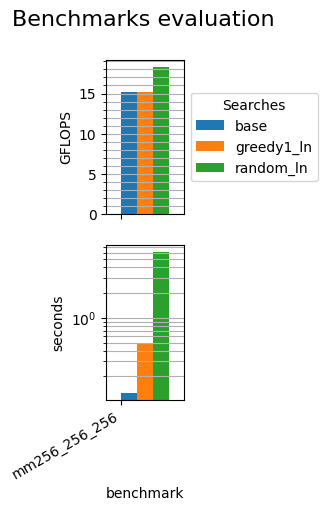
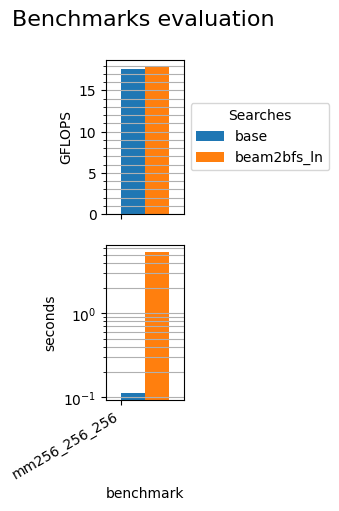
Adding results

diff --git a/loop_tool_service/models/rllib/rllib_agent.py b/loop_tool_service/models/rllib/rllib_agent.py
@@ -52,7 +52,7 @@ from loop_tool_service.models.evaluator import Evaluator
 
 import torch
 import importlib
-import inspect
+import time
 
 from ray.tune.integration.wandb import WandbLoggerCallback
 from loop_tool_service.paths import LOOP_TOOL_ROOT
@@ -158,7 +158,7 @@ class MyCallback(Callback):
 
 
 class RLlibAgent:
-    def __init__(self, trainer, dataset, size, network, sweep_count, eval_time, wandb_key_path=str(LOOP_TOOL_ROOT) + "/wandb_key.txt") -> None:
+    def __init__(self, trainer, dataset, size, eval_size, network, sweep_count, eval_time, wandb_key_path=str(LOOP_TOOL_ROOT) + "/wandb_key.txt") -> None:
         self.wandb_dict = {}
 
         global datasets_global, max_episode_steps
@@ -170,11 +170,12 @@ class RLlibAgent:
         self.config = importlib.import_module(f"loop_tool_service.models.rllib.config.{self.algorithm}.{trainer}").get_config(sweep_count)
         self.dataset = dataset
         self.size = size
+        self.eval_size = eval_size
         self.network = getattr(importlib.import_module(f"loop_tool_service.models.rllib.my_net_rl"), network)
         self.wandb_dict['network'] = network
         self.env = make_env()
         self.reward = list(self.env.reward.spaces.keys())[0]
-        my_artifacts = Path(tempfile.mkdtemp()) # Dir to download and upload files. Has start, end subdirectories
+        my_artifacts = Path(f'/private/home/dejang/tools/loop_tool_env/results/{time.strftime("%Y%m%d-%H%M%S")}') #Path(tempfile.mkdtemp()) # Dir to download and upload files. Has start, end subdirectories
         self.my_artifacts_start = my_artifacts/'start'
         self.my_artifacts_end = my_artifacts/'end'
         self.device = 'cuda' if torch.cuda.is_available() else 'cpu'
@@ -189,8 +190,11 @@ class RLlibAgent:
         self.init()
     
     def init(self):
-        os.mkdir(self.my_artifacts_start)
-        os.mkdir(self.my_artifacts_end)
+        # os.mkdir(self.my_artifacts_start)
+        # os.mkdir(self.my_artifacts_end)
+        self.my_artifacts_start.mkdir(parents=True)
+        self.my_artifacts_end.mkdir(parents=True)
+        
         ModelCatalog.register_custom_model(
             "my_model", self.network #my_net_rl.TorchBatchNormModel #if False else my_net_rl.TorchCustomModel
         )
@@ -208,6 +212,8 @@ class RLlibAgent:
         self.test_benchmarks = benchmarks[train_size:]
         self.wandb_dict['train_benchmarks'] = self.train_benchmarks
         self.wandb_dict['test_benchmarks'] = self.test_benchmarks
+        self.wandb_dict['eval_train_benchmarks'] = self.train_benchmarks[:self.eval_size]
+        self.wandb_dict['eval_test_benchmarks'] = self.test_benchmarks[:self.eval_size]
 
         self.wandb_dict['train_size'] = len(self.train_benchmarks)
         self.wandb_dict['test_size'] = len(self.test_benchmarks)
@@ -246,10 +252,12 @@ class RLlibAgent:
 
             self.train_benchmarks = self.checkpoint_start['train_benchmarks']
             self.test_benchmarks = self.checkpoint_start['test_benchmarks']
-            
+            self.wandb_dict['eval_train_benchmarks'] = self.checkpoint_start['eval_train_benchmarks'][:self.eval_size] if len(self.eval_size) < self.checkpoint_start['eval_train_benchmarks'] else self.checkpoint_start['train_benchmarks'][:self.eval_size]
+            self.wandb_dict['eval_test_benchmarks'] = self.checkpoint_start['eval_test_benchmarks'][:self.eval_size] if len(self.eval_size) < self.checkpoint_start['eval_test_benchmarks'] else self.checkpoint_start['eval_test_benchmarks'][:self.eval_size]
+
 
         except:
-            print('Policy not found')
+            print('Wandb had problem with loading the model!')
             return
 
             
@@ -297,19 +305,18 @@ class RLlibAgent:
             print("hhh2______________________")
 
 
-    def evaluate(self, eval_size=100, eval_time=10):
+    def evaluate(self):
         if self.analysis:
             config_checkpoint_pairs = [ [trial.trial_id, trial.config, str(trial.checkpoint.value)] for trial in self.analysis.trials ]
         elif self.checkpoint_path != None:
-            config_checkpoint_pairs = [['dummy', self.config, self.checkpoint_path]]
+            config_checkpoint_pairs = [[ self.wandb_dict['wandb_start'].split('/')[-1], self.config, self.checkpoint_path]]
         else:
             print('RLlibAgent: No analysis found. Run train method first.')
             return
 
 
         searches = { k:v for k, v in self.evaluator.searches.items() if k in ['greedy1_ln', 'greedy2_ln', 'beam2dfs_ln', 'beam4dfs_ln','beam2bfs_ln', 'beam4bfs_ln', 'random_ln', 'policy']} 
-        # searches = { k:v for k, v in self.evaluator.searches.items() if k in ['greedy1_ln', 'greedy2_ln', 'policy']} 
-        
+
         for trial_id, config, checkpoint_path_str in config_checkpoint_pairs:
             if checkpoint_path_str == None:
                 continue
@@ -339,16 +346,11 @@ class RLlibAgent:
 
             self.evaluator.send_to_wandb(wandb_run_id=trial_id, wandb_dict=self.wandb_dict, path=self.my_artifacts_end/trial_id)
 
-            # # Evaluate trial
-            # if self.algorithm in ['ppo']:
-            #     torch.save(policy_model,  policy_path)
-            #     self.evaluator.set_policy_path(policy_path)
-            # else:
             self.evaluator.set_policy_agent(agent)
 
-            df_train = self.evaluator.evaluate(self.env, self.train_benchmarks[:eval_size], searches)
+            df_train = self.evaluator.evaluate(self.env, self.wandb_dict['eval_train_benchmarks'], searches)
             self.evaluator.save(path=self.my_artifacts_end/trial_id/"train")
-            df_val = self.evaluator.evaluate(self.env, self.test_benchmarks[:eval_size], searches)
+            df_val = self.evaluator.evaluate(self.env, self.wandb_dict['eval_test_benchmarks'], searches)
             self.evaluator.save(path=self.my_artifacts_end/trial_id/"test")
         
             self.wandb_update_df(df_train, prefix='train_')
@@ -390,7 +392,15 @@ if __name__ == '__main__':
         ray.init(local_mode=args.local_mode, ignore_reinit_error=True)
 
 
-    agent = RLlibAgent(trainer=args.trainer, dataset=args.dataset, size=args.size, network=args.network, sweep_count=args.sweep, eval_time=args.eval_time)
+    agent = RLlibAgent(
+        trainer=args.trainer, 
+        dataset=args.dataset, 
+        size=args.size, 
+        eval_size=args.eval_size,
+        network=args.network, 
+        sweep_count=args.sweep, 
+        eval_time=args.eval_time
+    )
 
     if args.wandb_url:
         agent.load_model(args.wandb_url)
@@ -400,7 +410,7 @@ if __name__ == '__main__':
         stop_reward=args.stop_reward,
         sweep_count=args.sweep,
     )
-    agent.evaluate(args.eval_size)
+    agent.evaluate()
 
     ray.shutdown()
     print("Return from train!")

diff --git a/loop_tool_service/service_py/env/search_env.py b/loop_tool_service/service_py/env/search_env.py
@@ -54,11 +54,11 @@ class SearchGraph:
     def expand_core(self, agent, search_depth, search_width, eval_mode, start_time, ranking, timeout):
         node_time = time.time() - start_time
         node_key = hash(agent.dump())
-        real_flops = self.evaluator.eval_gflops(agent, 'loop_nest')
 
         self.action_max_time[len(agent.actions)] = node_time
 
         if node_key not in self.graph or self.graph.nodes[node_key] == {} or len(agent.actions) < len(self.graph.nodes[node_key]['actions']):
+            real_flops = self.evaluator.eval_gflops(agent, 'loop_nest')
             self.graph.add_node(
                 node_key,
                 label=f'GFLOPS = {real_flops:9.4f}\n T = {node_time:9.4f} s\n{agent.actions}', #+ agent.dump().replace(':', ';'),
@@ -117,6 +117,8 @@ class SearchGraph:
         action_max_time_final = [self.action_max_time[0]]
         for i in range(1, len(self.action_max_time)):
             action_max_time_final.append(max(action_max_time_final[-1], self.action_max_time[i]))
+
+        action_max_time_final[0] = float("nan")
 
         return [actions, rewards, action_max_time_final]
 
@@ -206,8 +208,9 @@ class BeamSearcherBFS:
         frontier_agents = [agent_copy]
         start_time = time.time()
 
-        for _ in range(num_steps):
-            for agent_frontier in frontier_agents:
+        for i in range(num_steps):
+            while len(frontier_agents):
+                agent_frontier = frontier_agents.pop()
                 search_graph.expand(
                     agent=agent_frontier, 
                     num_steps=1, 
@@ -215,17 +218,17 @@ class BeamSearcherBFS:
                     eval_mode=eval_mode, 
                     start_time=start_time, 
                     ranking=ranking, 
-                    timeout=timeout/num_steps
+                    timeout=timeout
                 )
             
             frontier_nodes = [node for node in search_graph.graph.nodes if search_graph.graph.out_degree(node) == 0]
             for x in frontier_nodes: 
-                agent_copy = agent.copy()
+                agent_frontier = agent_copy.copy()
                 for action in search_graph.graph.nodes[x]['actions']:
-                    agent_copy.apply_action(action)
+                    agent_frontier.apply_action(action)
                 
-                frontier_agents.append(agent_copy)
-                
+                frontier_agents.append(agent_frontier)
+
                     
         search_table = search_graph.get_best_path_data()
 

diff --git a/loop_tool_service/models/evaluator.py b/loop_tool_service/models/evaluator.py
@@ -153,6 +153,11 @@ class Evaluator:
         axs[1].set_ylabel('seconds')
         axs[1].set_yscale('log')
         
+
+        plt.gca().yaxis.set_major_locator(plt.LogLocator(base=10, numticks=10))
+        plt.gca().yaxis.set_minor_locator(plt.LogLocator(base=10, subs='all', numticks=100))
+
+
         fig.suptitle(f'Benchmarks evaluation', fontsize=16)
         fig.autofmt_xdate()
 
@@ -199,8 +204,8 @@ class Evaluator:
             fig, axs = plt.subplots(2, 1)
             
             for i, search in enumerate(search_columns): 
-                x_data = np.arange(0, self.steps + 1, 1) + 0.05 * i  # to show overlaping points
-                axs[0].plot(x_data[:len(gflops_row[search])], gflops_row[search], marker = '.', label = search)                
+                x_data = np.arange(0, 2 * self.steps, 1) + 0.05 * i  # to show overlaping points
+                axs[0].plot(x_data[:len(gflops_row[search])], gflops_row[search], marker = '.', label = search)      
                 axs[1].plot(x_data[:len(time_row[search])], time_row[search], marker = '.', label = search)
 
 
@@ -241,13 +246,19 @@ class Evaluator:
                 wandb_run.summary[key] = value
             wandb_run.summary.update()
 
+
+        # Delete previous files 
+        for file in wandb_run.files():
+            if file.name.endswith('.csv') or file.name.endswith('.png'): 
+                file.delete()
+
         if path: # Upload wandb plots
             cwd = os.getcwd()
             os.chdir(path)
             for root, dirs, files in os.walk(path):
                 for file in files:
                     print(f"{root}/{file}")
-                    wandb_run.upload_file(f"{root}/{file}")        
+                    wandb_run.upload_file(f"{root}/{file}")       
             os.chdir(cwd)
         
         print(f'\nWandb page = https://wandb.ai/{wandb_url}')
@@ -283,7 +294,7 @@ class Evaluator:
 
 
     def rllib_search(self, env, base_gflops):
-        actions, action_gflops, action_times = [''], [base_gflops], [0]
+        actions, action_gflops, action_times = [''], [base_gflops], [float('nan')]
         start_time = time.time()
         feature_vector = env.observation["loops_tensor"]
 

diff --git a/loop_tool_service/models/rllib/config/dqn/ApexTrainer.py b/loop_tool_service/models/rllib/config/dqn/ApexTrainer.py
@@ -11,7 +11,7 @@ def get_config(sweep=False):
         "framework": 'torch',
         "model": {
             "vf_share_layers": True,
-            "fcnet_hiddens": ray.tune.choice([ [w] * l for w in hiddens_width for l in hiddens_layers ]) if sweep else [1000] * 10,
+            "fcnet_hiddens": ray.tune.choice([ [w] * l for w in hiddens_width for l in hiddens_layers ]) if sweep else [1000] * 8,
             # "post_fcnet_hiddens":
             # "fcnet_activation": 
             # "post_fcnet_activation":
